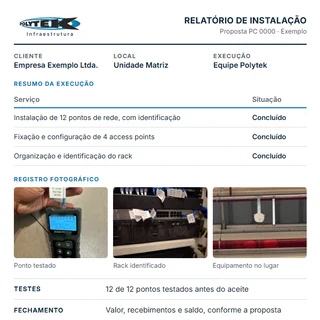
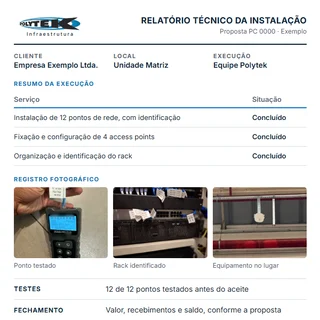
Entrega Documentada: textos novos e título Relatório Técnico da Instalação

Changed region(s): [[0.4375, 0.0312, 0.7812, 0.0938]]

diff --git a/pagina-inicial/inicio/index.html b/pagina-inicial/inicio/index.html
@@ -124,19 +124,19 @@
   <div class="caixa registro">
     <div class="registro-texto">
       <p class="sobretitulo">Entrega Documentada</p>
-      <h2 id="t-entrega">O Serviço Fica Registrado.</h2>
-      <p>Depois da execução, você recebe por link o Relatório de Conclusão: o que foi feito, as fotos de cada etapa, os testes e as observações do atendimento.</p>
+      <h2 id="t-entrega">Relatório Técnico da Instalação</h2>
+      <p>Ao concluir a execução, a Polytek disponibiliza um relatório com os serviços realizados, registros fotográficos, testes e eventuais pendências. A documentação permite conferir a entrega e mantém um histórico técnico para futuras consultas e manutenções.</p>
       <dl class="pontos">
-        <div><dt>Relatório de Conclusão</dt><dd>Serviços executados, fotos com legenda e a situação de cada item.</dd></div>
-        <div><dt>Pesquisa de Satisfação</dt><dd>Cinco perguntas, respondidas em um minuto no próprio link.</dd></div>
-        <div><dt>Confirmação de Recebimento</dt><dd>O responsável confirma a conclusão do serviço, com nome, data e hora.</dd></div>
-        <div><dt>Ajuste Solicitado no Link</dt><dd>Se algo ficou pendente, o pedido chega direto à equipe que executou.</dd></div>
+        <div><dt>Relatório de Conclusão</dt><dd>Descrição dos serviços executados, registros fotográficos e situação de cada item.</dd></div>
+        <div><dt>Avaliação do Atendimento</dt><dd>Pesquisa de satisfação com cinco perguntas sobre a experiência do cliente.</dd></div>
+        <div><dt>Confirmação de Recebimento</dt><dd>Registro de recebimento do relatório pelo responsável, com identificação, data e hora.</dd></div>
+        <div><dt>Solicitação de Ajustes</dt><dd>Caso identifique alguma pendência, o responsável pode registrar a solicitação diretamente pelo link.</dd></div>
       </dl>
     </div>
     <figure class="folha" aria-label="Exemplo de Relatório de Conclusão, com dados fictícios">
       <div class="folha-topo">
         <span class="folha-marca"><img src="/polytek-site-preview/pagina-inicial/a/marca/polytek.png" alt="Polytek" width="498" height="96" loading="lazy"><span>Infraestrutura</span></span>
-        <span class="folha-id"><strong>Relatório de Instalação</strong>Proposta PC 0000 · Exemplo</span>
+        <span class="folha-id"><strong>Relatório Técnico da Instalação</strong>Proposta PC 0000 · Exemplo</span>
       </div>
       <dl class="folha-dados">
         <div><dt>Cliente</dt><dd>Empresa Exemplo Ltda.</dd></div>

diff --git a/pagina-inicial/proposta-de-design/index.html b/pagina-inicial/proposta-de-design/index.html
@@ -133,19 +133,19 @@
   <div class="caixa registro">
     <div class="registro-texto">
       <p class="sobretitulo">Entrega Documentada</p>
-      <h2 id="t-entrega">O Serviço Fica Registrado.</h2>
-      <p>Depois da execução, você recebe por link o Relatório de Conclusão: o que foi feito, as fotos de cada etapa, os testes e as observações do atendimento.</p>
+      <h2 id="t-entrega">Relatório Técnico da Instalação</h2>
+      <p>Ao concluir a execução, a Polytek disponibiliza um relatório com os serviços realizados, registros fotográficos, testes e eventuais pendências. A documentação permite conferir a entrega e mantém um histórico técnico para futuras consultas e manutenções.</p>
       <dl class="pontos">
-        <div><dt>Relatório de Conclusão</dt><dd>Serviços executados, fotos com legenda e a situação de cada item.</dd></div>
-        <div><dt>Pesquisa de Satisfação</dt><dd>Cinco perguntas, respondidas em um minuto no próprio link.</dd></div>
-        <div><dt>Confirmação de Recebimento</dt><dd>O responsável confirma a conclusão do serviço, com nome, data e hora.</dd></div>
-        <div><dt>Ajuste Solicitado no Link</dt><dd>Se algo ficou pendente, o pedido chega direto à equipe que executou.</dd></div>
+        <div><dt>Relatório de Conclusão</dt><dd>Descrição dos serviços executados, registros fotográficos e situação de cada item.</dd></div>
+        <div><dt>Avaliação do Atendimento</dt><dd>Pesquisa de satisfação com cinco perguntas sobre a experiência do cliente.</dd></div>
+        <div><dt>Confirmação de Recebimento</dt><dd>Registro de recebimento do relatório pelo responsável, com identificação, data e hora.</dd></div>
+        <div><dt>Solicitação de Ajustes</dt><dd>Caso identifique alguma pendência, o responsável pode registrar a solicitação diretamente pelo link.</dd></div>
       </dl>
     </div>
     <figure class="folha" aria-label="Exemplo de Relatório de Conclusão, com dados fictícios">
       <div class="folha-topo">
         <span class="folha-marca"><img src="/polytek-site-preview/pagina-inicial/a/marca/polytek.png" alt="Polytek" width="498" height="96" loading="lazy"><span>Infraestrutura</span></span>
-        <span class="folha-id"><strong>Relatório de Instalação</strong>Proposta PC 0000 · Exemplo</span>
+        <span class="folha-id"><strong>Relatório Técnico da Instalação</strong>Proposta PC 0000 · Exemplo</span>
       </div>
       <dl class="folha-dados">
         <div><dt>Cliente</dt><dd>Empresa Exemplo Ltda.</dd></div>
